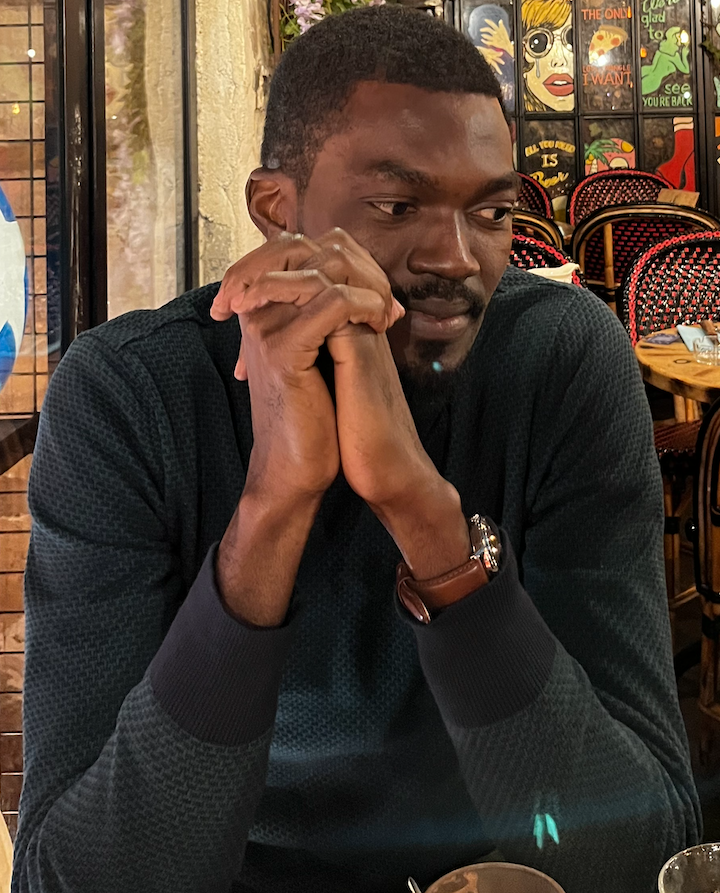
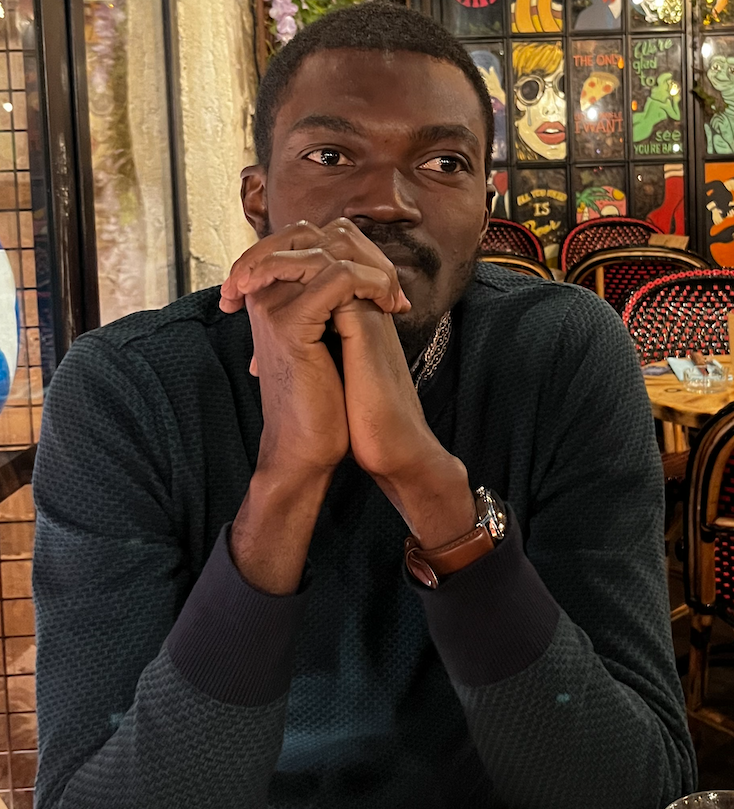
Add new profile picture

diff --git a/about.html b/about.html
@@ -19,7 +19,7 @@
   </nav>
   <div class="description">
     <div class="first-column">
-      <img src="Photos/photo.jpeg" class="profil_a">
+      <img src="Photos/photos.jpeg" class="profil_a">
     </div>
 
   <div class="second-column">
